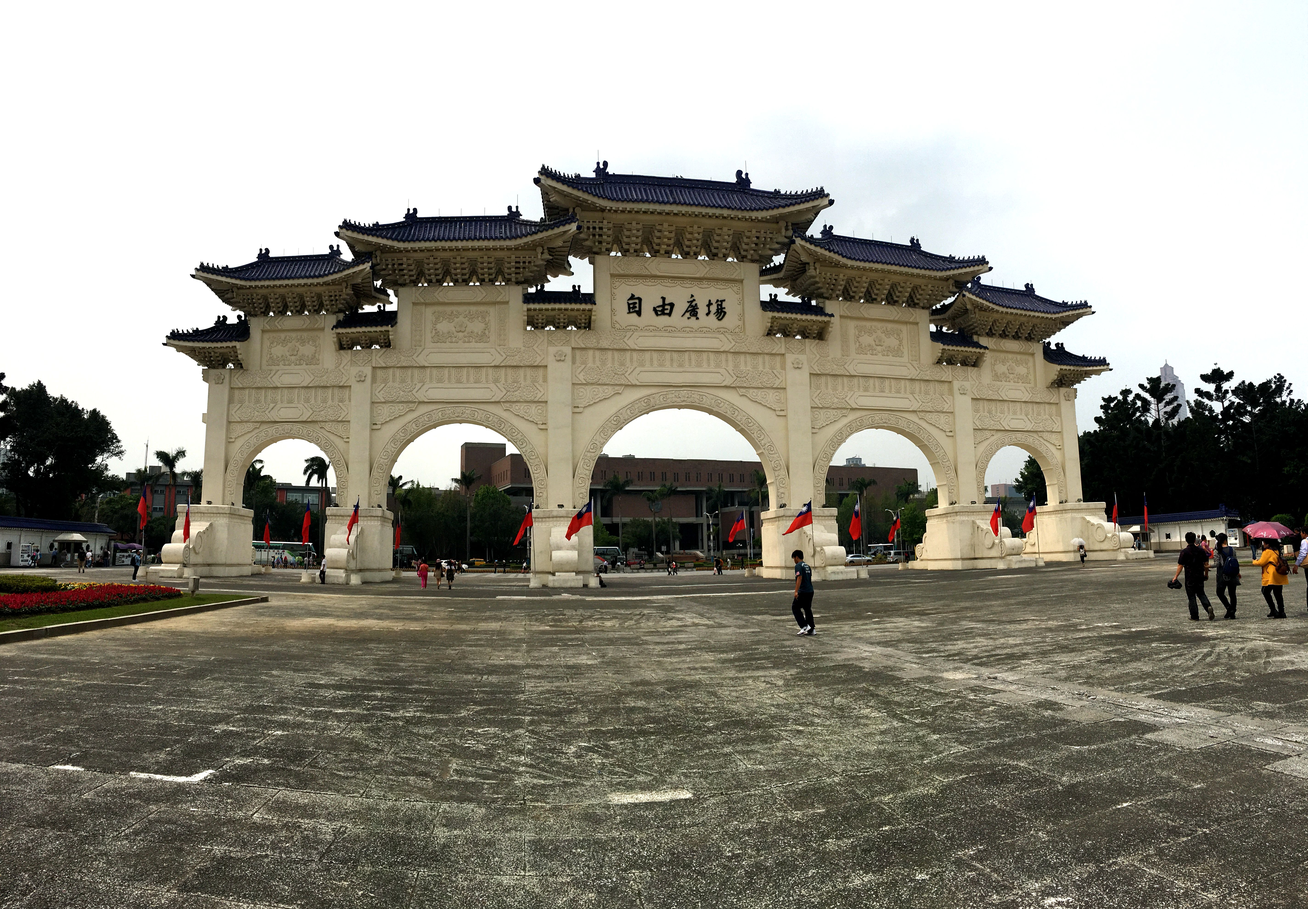
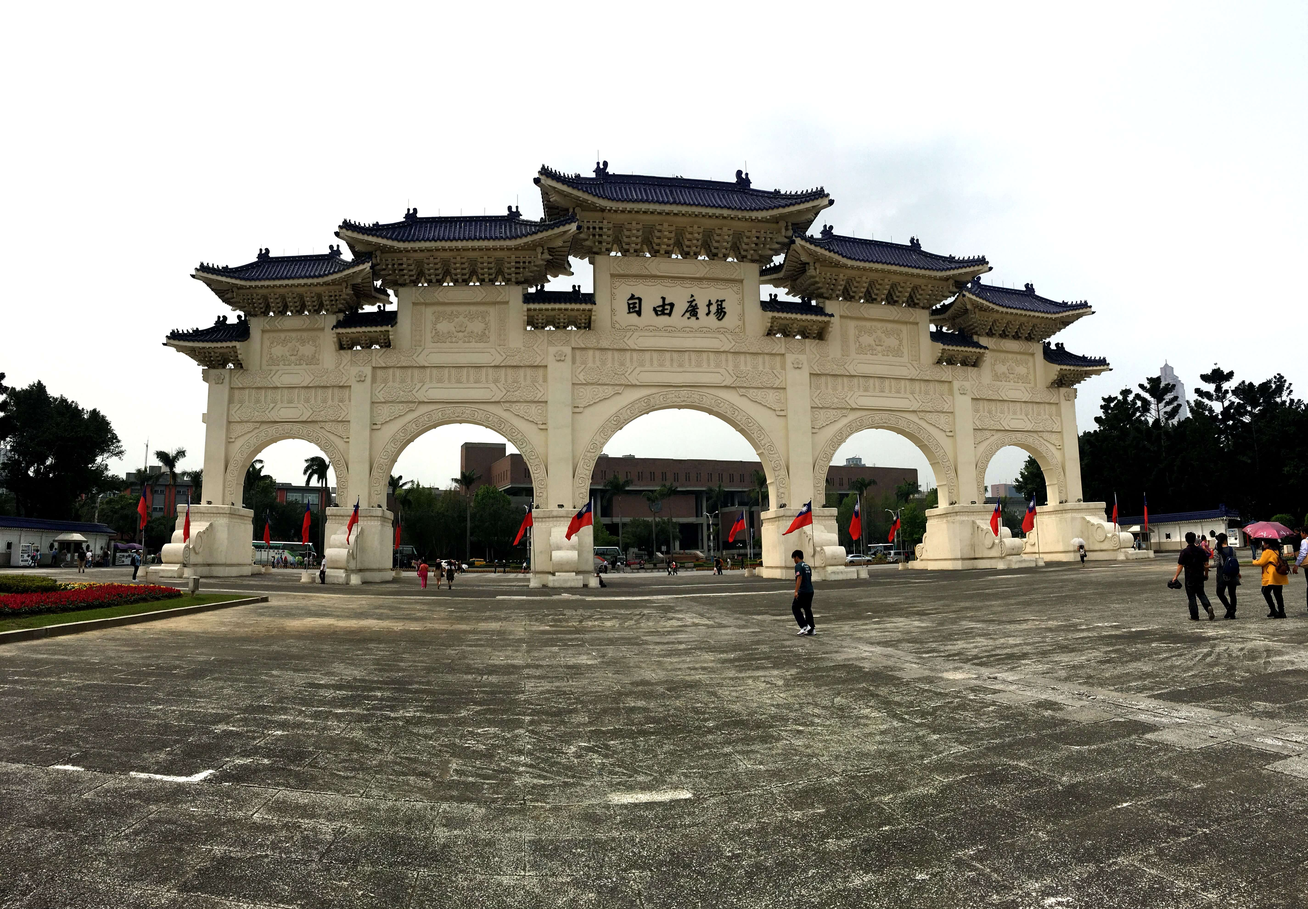
resize imgs

diff --git a/source/_posts/taiwan.md b/source/_posts/taiwan.md
@@ -11,76 +11,75 @@ _ 「台北-花莲-绿岛-垦丁-台南-台中-台北」_
 
 题图为台北车站。
 
-环岛台湾，从成都搭乘飞机而来，坐过台湾干净且非常人性化的台铁和高铁，特意品尝了具有几十年传统的台铁便当；也体验过相当于大陆地铁的台北捷运，办了一张很萌很台湾的悠游卡，假装是当地人。在台湾东部还乘坐了要等半个小时之久的不太方便的公共交通，等公交的时候“聆听”当地老伯讲政治......在路上，通过不同的搭乘方式，感受台湾的方方面面。
+环岛台湾，从成都搭乘飞机而来，一路上坐过台湾干净的台铁和高铁，特意品尝了具有几十年传统的台铁便当；也体验过相当于大陆地铁的台北捷运，办了一张很萌很台湾的悠游卡，假装当地人挤进行色匆匆的捷运人流。在台湾东部还乘坐了要等半个小时之久的公共巴士，等公交的时候“聆听”当地老伯讲政治......在路上，通过不同的搭乘方式，感受台湾的方方面面。
 <!-- more -->
 
 Airbnb上预定的南港住宿，房东非常热情周到。她说经常来广州，会因为台湾口音被认出是台湾人。“我的口音有那么明显么？”
-<img src="taiwan/FullSizeRender 4.jpg" width = "600" height = "300" alt="" align= />
+<img src="FullSizeRender 4.jpg" width = "600" height = "300" alt="" align= />
 
 成群的机车党
-<img src="taiwan/IMG_0132.JPG" width = "600" height = "300" alt="" align= />
+<img src="IMG_0132.JPG" width = "600" height = "300" alt="" align= />
 
-中正纪念堂。纪念堂大广场里，有一群练街舞的学生
-<img src="taiwan/FullSizeRender 10.jpg" width = "600" height = "500" alt="" align= />
-<img src="taiwan/IMG_0140.JPG" width = "600" height = "300" alt="" align= />
+中正纪念堂，慕名来看每隔一个小时都有的卫兵换班仪式。纪念堂大广场里特别热闹，有一群练街舞的学生，领着孩子玩耍的家长，还有各种文艺宣传活动。
+<img src="FullSizeRender 10.jpg" width = "600" height = "500" alt="" align= />
+<img src="IMG_0140.JPG" width = "600" height = "300" alt="" align= />
 
-巴洛克式建筑-总统府
-<img src="taiwan/FullSizeRender 5.jpg" width = "600" height = "300" alt="" align= />
+巴洛克式建筑-总统府。
+<img src="FullSizeRender 5.jpg" width = "600" height = "300" alt="" align= />
 101大楼，声名在外，我却认为远没有总统府和中正纪念堂的建筑美好。
-<img src="taiwan/IMG_0175.JPG" width = "600" height = "300" alt="" align= />
+<img src="IMG_0175.JPG" width = "600" height = "300" alt="" align= />
 
 站在猫空上眺望台北远景，101大楼直入天际，映入眼帘。
-<img src="taiwan/FullSizeRender 15.jpg" width = "600" height = "300" alt="" align= />
-<img src="taiwan/FullSizeRender 17.jpg" width = "600" height = "300" alt="" align= />
+<img src="FullSizeRender 15.jpg" width = "600" height = "300" alt="" align= />
+<img src="FullSizeRender 17.jpg" width = "600" height = "300" alt="" align= />
 
 台北的车流不息
-<img src="taiwan/IMG_0751.JPG" width = "600" height = "300" alt="" align= />
+<img src="IMG_0751.JPG" width = "600" height = "300" alt="" align= />
 
 肥前屋的秋刀鱼，据说是老板是日本人，能做出特别地道的鳗鱼饭。的确非常美味，不枉我11点就来排队。
-<img src="taiwan/IMG_0179.JPG" width = "600" height = "300" alt="" align= />
+<img src="IMG_0179.JPG" width = "600" height = "300" alt="" align= />
 
 地铁旁随便就可以买到便宜，新鲜且美味的寿司
-<img src="taiwan/IMG_0746.JPG" width = "600" height = "300" alt="" align= />
+<img src="IMG_0746.JPG" width = "600" height = "300" alt="" align= />
 
 花莲的清水断崖美如画。
-<img src="taiwan/FullSizeRender 6.jpg" width = "600" height = "300" alt="" align= />
+<img src="FullSizeRender 6.jpg" width = "600" height = "300" alt="" align= />
 
 太鲁阁的美景宛如唐宋时期的山水画。假装在问道。
-<img src="taiwan/IMG_0305.JPG" width = "600" height = "300" alt="" align= />
+<img src="IMG_0305.JPG" width = "600" height = "300" alt="" align= />
 
 七星潭边作画的画家
-<img src="taiwan/IMG_6530.JPG" width = "600" height = "300" alt="" align= />
+<img src="IMG_6530.JPG" width = "600" height = "300" alt="" align= />
 
 绿岛是台湾的离岛，只能选乘船和飞机两种交通方式。飞机不好预定且价格高昂，我们选择的乘船。乘船对于晕一切机动车的我来说绝对不是一个美好的体验...好在绿岛的景色美极，也值得了。
-<img src="taiwan/FullSizeRender 11.jpg" width = "600" height = "300" alt="" align= />
-<img src="taiwan/FullSizeRender 16.jpg" width = "600" height = "300" alt="" align= />
-<img src="taiwan/IMG_0503.JPG" width = "600" height = "300" alt="" align= />
-<img src="taiwan/IMG_0484.JPG" width = "600" height = "300" alt="" align= />
+<img src="FullSizeRender 11.jpg" width = "600" height = "300" alt="" align= />
+<img src="FullSizeRender 16.jpg" width = "600" height = "300" alt="" align= />
+<img src="IMG_0503.JPG" width = "600" height = "300" alt="" align= />
+<img src="IMG_0484.JPG" width = "600" height = "300" alt="" align= />
 
 到垦丁这一天刚下过雨，天气反而舒爽，骑着机车慕名去后壁湖吃生鱼片。
-<img src="taiwan/FullSizeRender 18.jpg" width = "600" height = "300" alt="" align= />
+<img src="FullSizeRender 18.jpg" width = "600" height = "300" alt="" align= />
 
-<img src="taiwan/FullSizeRender 13.jpg" width = "600" height = "300" alt="垦丁渔港生鱼片" align= />
+<img src="FullSizeRender 13.jpg" width = "600" height = "300" alt="垦丁渔港生鱼片" align= />
 
 鹅銮鼻公园，已经接近台湾最南点了
-<img src="taiwan/FullSizeRender 14.jpg" width = "600" height = "300" alt="" align= />
+<img src="FullSizeRender 14.jpg" width = "600" height = "300" alt="" align= />
 
 夜宿海生馆，在海豚馆下面打地铺，和海豚一起入睡，别样的旅行住宿体验。
-<img src="taiwan/IMG_0616.JPG" width = "600" height = "300" alt="" align= />
+<img src="IMG_0616.JPG" width = "600" height = "300" alt="" align= />
 
 李安的故乡--台南
-<img src="taiwan/FullSizeRender 7.jpg" width = "600" height = "300" alt="" align= />
+<img src="FullSizeRender 7.jpg" width = "600" height = "300" alt="" align= />
 
+<img src="FullSizeRender 9.jpg" width = "600" height = "300" alt="路旁小学" align= />
 上过台湾国宴担仔面，虽然我更喜欢吃担担面
-<img src="taiwan/FullSizeRender 8jpg" width = "600" height = "300" alt="" align= />
-
-<img src="taiwan/FullSizeRender 9.jpg" width = "600" height = "300" alt="路旁小学" align= />
+<img src="FullSizeRender 8.jpg" width = "600" height = "300" alt="" align= />
 
 孔庙旁小店的美食
-<img src="taiwan/IMG_0690.JPG" width = "600" height = "300" alt="" align= />
+<img src="IMG_0690.JPG" width = "600" height = "300" alt="" align= />
 
 台中-东海大学，贝聿铭的设计
-<img src="taiwan/IMG_0728.JPG" width = "600" height = "300" alt="" align= />
+<img src="IMG_0728.JPG" width = "600" height = "300" alt="" align= />
 
 时间： 2016年4月
 

diff --git a/source/_posts/angkorWat.md b/source/_posts/angkorWat.md
@@ -6,40 +6,40 @@ date: 2016-07-03 17:00:27
 tags:
 categories: Travelling
 ---
-![吴哥窟边上的少年](angkorWat/angkorWat.JPG)
+![吴哥窟边上的少年](angkorWat.JPG)
 <!-- more -->
-<img src="angkorWat/IMG_0257.JPG" width = "600" height = "300" alt="" align= />
-<img src="angkorWat/IMG_0369.JPG" width = "600" height = "300" alt="" align= />
-<img src="angkorWat/IMG_0392.JPG" width = "600" height = "300" alt="" align= />
-<img src="angkorWat/IMG_0402.JPG" width = "600" height = "300" alt="" align= />
-<img src="angkorWat/IMG_0406.JPG" width = "600" height = "300" alt="" align= />
-<img src="angkorWat/IMG_0468.JPG" width = "600" height = "300" alt="" align= />
-<img src="angkorWat/IMG_0469.JPG" width = "600" height = "300" alt="" align= />
-<img src="angkorWat/IMG_0477.JPG" width = "600" height = "300" alt="" align= />
-<img src="angkorWat/IMG_0479.JPG" width = "600" height = "300" alt="" align= />
-<img src="angkorWat/IMG_0487.JPG" width = "600" height = "300" alt="" align= />
-<img src="angkorWat/IMG_0488.JPG" width = "600" height = "300" alt="" align= />
-<img src="angkorWat/IMG_0511.JPG" width = "600" height = "300" alt="" align= />
-<img src="angkorWat/IMG_0513.JPG" width = "600" height = "300" alt="" align= />
-<img src="angkorWat/IMG_0521.JPG" width = "600" height = "300" alt="" align= />
-<img src="angkorWat/IMG_0535.JPG" width = "600" height = "300" alt="" align= />
-<img src="angkorWat/IMG_0536.JPG" width = "600" height = "300" alt="" align= />
-<img src="angkorWat/IMG_0540.JPG" width = "600" height = "300" alt="" align= />
-<img src="angkorWat/IMG_0541.JPG" width = "600" height = "300" alt="" align= />
-<img src="angkorWat/IMG_0542.JPG" width = "600" height = "300" alt="" align= />
-<img src="angkorWat/IMG_0547.JPG" width = "600" height = "300" alt="" align= />
-<img src="angkorWat/IMG_0555.JPG" width = "600" height = "300" alt="" align= />
-<img src="angkorWat/IMG_0554.JPG" width = "600" height = "300" alt="" align= />
-<img src="angkorWat/IMG_0559.JPG" width = "600" height = "300" alt="" align= />
-<img src="angkorWat/IMG_0579.JPG" width = "600" height = "300" alt="" align= />
-<img src="angkorWat/IMG_0601.JPG" width = "600" height = "300" alt="" align= />
-<img src="angkorWat/IMG_0606.JPG" width = "600" height = "300" alt="" align= />
-<img src="angkorWat/IMG_0617.JPG" width = "600" height = "300" alt="" align= />
-<img src="angkorWat/IMG_0637.JPG" width = "600" height = "300" alt="" align= />
-<img src="angkorWat/IMG_0662.JPG" width = "600" height = "300" alt="" align= />
-<img src="angkorWat/IMG_0640.JPG" width = "600" height = "300" alt="" align= />
-<img src="angkorWat/IMG_0665.JPG" width = "600" height = "300" alt="" align= />
-<img src="angkorWat/IMG_0666.JPG" width = "600" height = "300" alt="" align= />
+<img src="IMG_0257.JPG" width = "600" height = "300" alt="" align= />
+<img src="IMG_0369.JPG" width = "600" height = "300" alt="" align= />
+<img src="IMG_0392.JPG" width = "600" height = "300" alt="" align= />
+<img src="IMG_0402.JPG" width = "600" height = "300" alt="" align= />
+<img src="IMG_0406.JPG" width = "600" height = "300" alt="" align= />
+<img src="IMG_0468.JPG" width = "600" height = "300" alt="" align= />
+<img src="IMG_0469.JPG" width = "600" height = "300" alt="" align= />
+<img src="IMG_0477.JPG" width = "600" height = "300" alt="" align= />
+<img src="IMG_0479.JPG" width = "600" height = "300" alt="" align= />
+<img src="IMG_0487.JPG" width = "600" height = "300" alt="" align= />
+<img src="IMG_0488.JPG" width = "600" height = "300" alt="" align= />
+<img src="IMG_0511.JPG" width = "600" height = "300" alt="" align= />
+<img src="IMG_0513.JPG" width = "600" height = "300" alt="" align= />
+<img src="IMG_0521.JPG" width = "600" height = "300" alt="" align= />
+<img src="IMG_0535.JPG" width = "600" height = "300" alt="" align= />
+<img src="IMG_0536.JPG" width = "600" height = "300" alt="" align= />
+<img src="IMG_0540.JPG" width = "600" height = "300" alt="" align= />
+<img src="IMG_0541.JPG" width = "600" height = "300" alt="" align= />
+<img src="IMG_0542.JPG" width = "600" height = "300" alt="" align= />
+<img src="IMG_0547.JPG" width = "600" height = "300" alt="" align= />
+<img src="IMG_0555.JPG" width = "600" height = "300" alt="" align= />
+<img src="IMG_0554.JPG" width = "600" height = "300" alt="" align= />
+<img src="IMG_0559.JPG" width = "600" height = "300" alt="" align= />
+<img src="IMG_0579.JPG" width = "600" height = "300" alt="" align= />
+<img src="IMG_0601.JPG" width = "600" height = "300" alt="" align= />
+<img src="IMG_0606.JPG" width = "600" height = "300" alt="" align= />
+<img src="IMG_0617.JPG" width = "600" height = "300" alt="" align= />
+<img src="IMG_0637.JPG" width = "600" height = "300" alt="" align= />
+<img src="IMG_0662.JPG" width = "600" height = "300" alt="" align= />
+<img src="IMG_0640.JPG" width = "600" height = "300" alt="" align= />
+<img src="IMG_0665.JPG" width = "600" height = "300" alt="" align= />
+<img src="IMG_0666.JPG" width = "600" height = "300" alt="" align= />
 
 时间 ： 2016年7月
 

diff --git a/source/_posts/beyondcorp-md.md b/source/_posts/beyondcorp-md.md
@@ -19,7 +19,7 @@ tags:
 
 BeyondCorp是一个零信任模型，它认为公司网络安全的一个重要的大前提是无论内网和外网都是不安全的。与传统的边界安全模型不同，BeyondCorp不是以用户的物理登录地点或者用户使用的网络作为访问服务的判定标准(无论员工是在家or在公司or咖啡店)，其访问策略是建立在设备信息(device)、状态(state)和关联用户(associated user)的基础上，更偏向用户行为和设备状态的分析。企业资源的所有访问都是完全验证，充分授权，并根据设备状态和用户凭证完全加密。BeyondCorp针对公司不同资源实现了不同粒度的访问控制。这样做的结果就实现了所有谷歌员工可以在任何网络下工作，根本不需要VPN.
 
-![BeyondCorp架构](beyondcorp-md/architecture.jpg)
+![BeyondCorp架构](architecture.jpg)
 
 ## 架构 Architecture
 
@@ -53,9 +53,9 @@ Data Processing数据处理步骤为：
 2. 统计数据相关性. 来自不同数据源的数据需要被统一成为这个设备的唯一的数据记录。
 3. 当输入的数据被融合为一个统一的数据记录后，Trusted Inferer被通知去触发重评估。
  
-<img src="beyondcorp-md/dataprocesspipeline.jpg" width = "300" height = "300" alt="数据处理流程" align=center />
+<img src="dataprocesspipeline.jpg" width = "300" height = "300" alt="数据处理流程" align=center />
 
-<img src="beyondcorp-md/flow.jpg" width = "600" height = "300" alt="图片名称" align=流程图 />
+<img src="flow.jpg" width = "600" height = "300" alt="图片名称" align=流程图 />
 
 ## 网络建设 - 内网和外网几乎没有区别
 ** 不再相信内网-公司内部网络建设:**. BeyondCorp将公司内部访问和远程访问等同，并在Google大楼内部建立了一个无特权网络（unprivileged network）. 所有谷歌大楼内办公的设备都连接这个无特权网络。对于有线和无线接入，谷歌使用RADIUS（远端用户拨入验证服务）服务器将设备分配到合适的网络。
@@ -74,7 +74,7 @@ Data Processing数据处理步骤为：
     4. 设备拥有一个足够的信任级别 
     5. 当以上1-4条件满足后，请求才会传递到coderreview后端。
 
-![流程图](beyondcorp-md/flow.jpg)
+![流程图](flow.jpg)
 
 ## 参考
 1. http://www.tomsitpro.com/articles/google-beyondcorp-future-network-security,1-3229.html

diff --git a/source/_posts/book-programtic-programer.md b/source/_posts/book-programtic-programer.md
@@ -18,7 +18,7 @@ categories:
 
 虽然都是外力，但也应该有层级之分。由于工作需要以及个人兴趣，对Java服务端开发的技能与技术有持续关注。以下引用网上的一张关于Java服务端开发的基础技能图谱：
 
-![java服务端技能图谱](book-programtic-programer/knowleagemap.jpg)
+![java服务端技能图谱](knowleagemap.jpg)
 
 在博文作者罗列的知识体系下，对Java核心概念(对象模型和接口设计)知识的掌握，需要有底层JVM，操作系统等知识的辅助，而上层的网络应用框架也少不了对Java语言和TCP/IP协议等的辅助。
 其实这不难理解，我们知识积累的方式就像是盖房子，地基挖的越深，房子架构越合理，房子就能越盖越高，越牢固。
